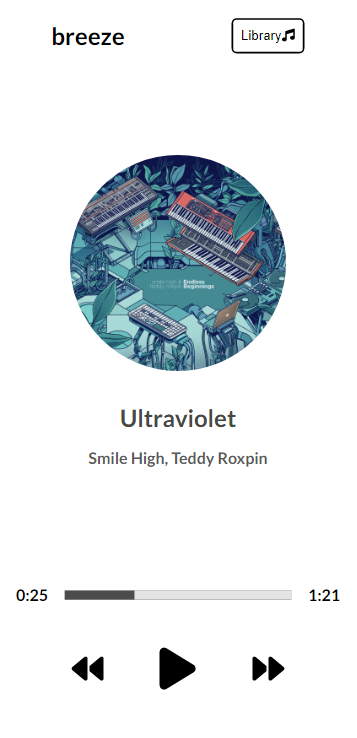
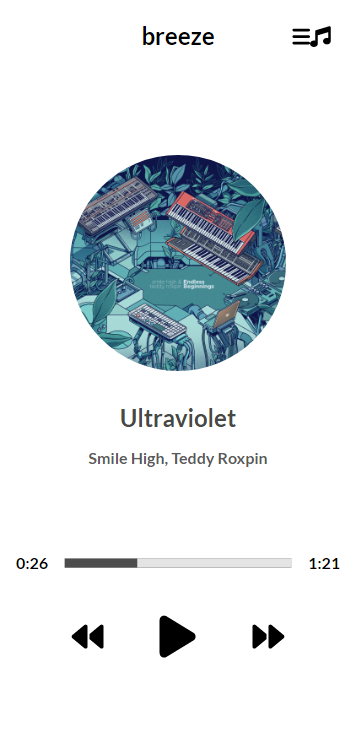
Update README

diff --git a/README.md b/README.md
@@ -14,8 +14,8 @@ You can do:
 
 - toggle playing by clicking ▶/⏸
 - skip forward/backward the music by clicking ⏪/⏩.
-- view all the music in the directory by clicking Library🎵.
-- select music you want to play in the Library sidebar.
+- view all the music in the collection by clicking 🎵.
+- select music you want to play in the sidebar.
 
 ### Responsive Web Design
 
